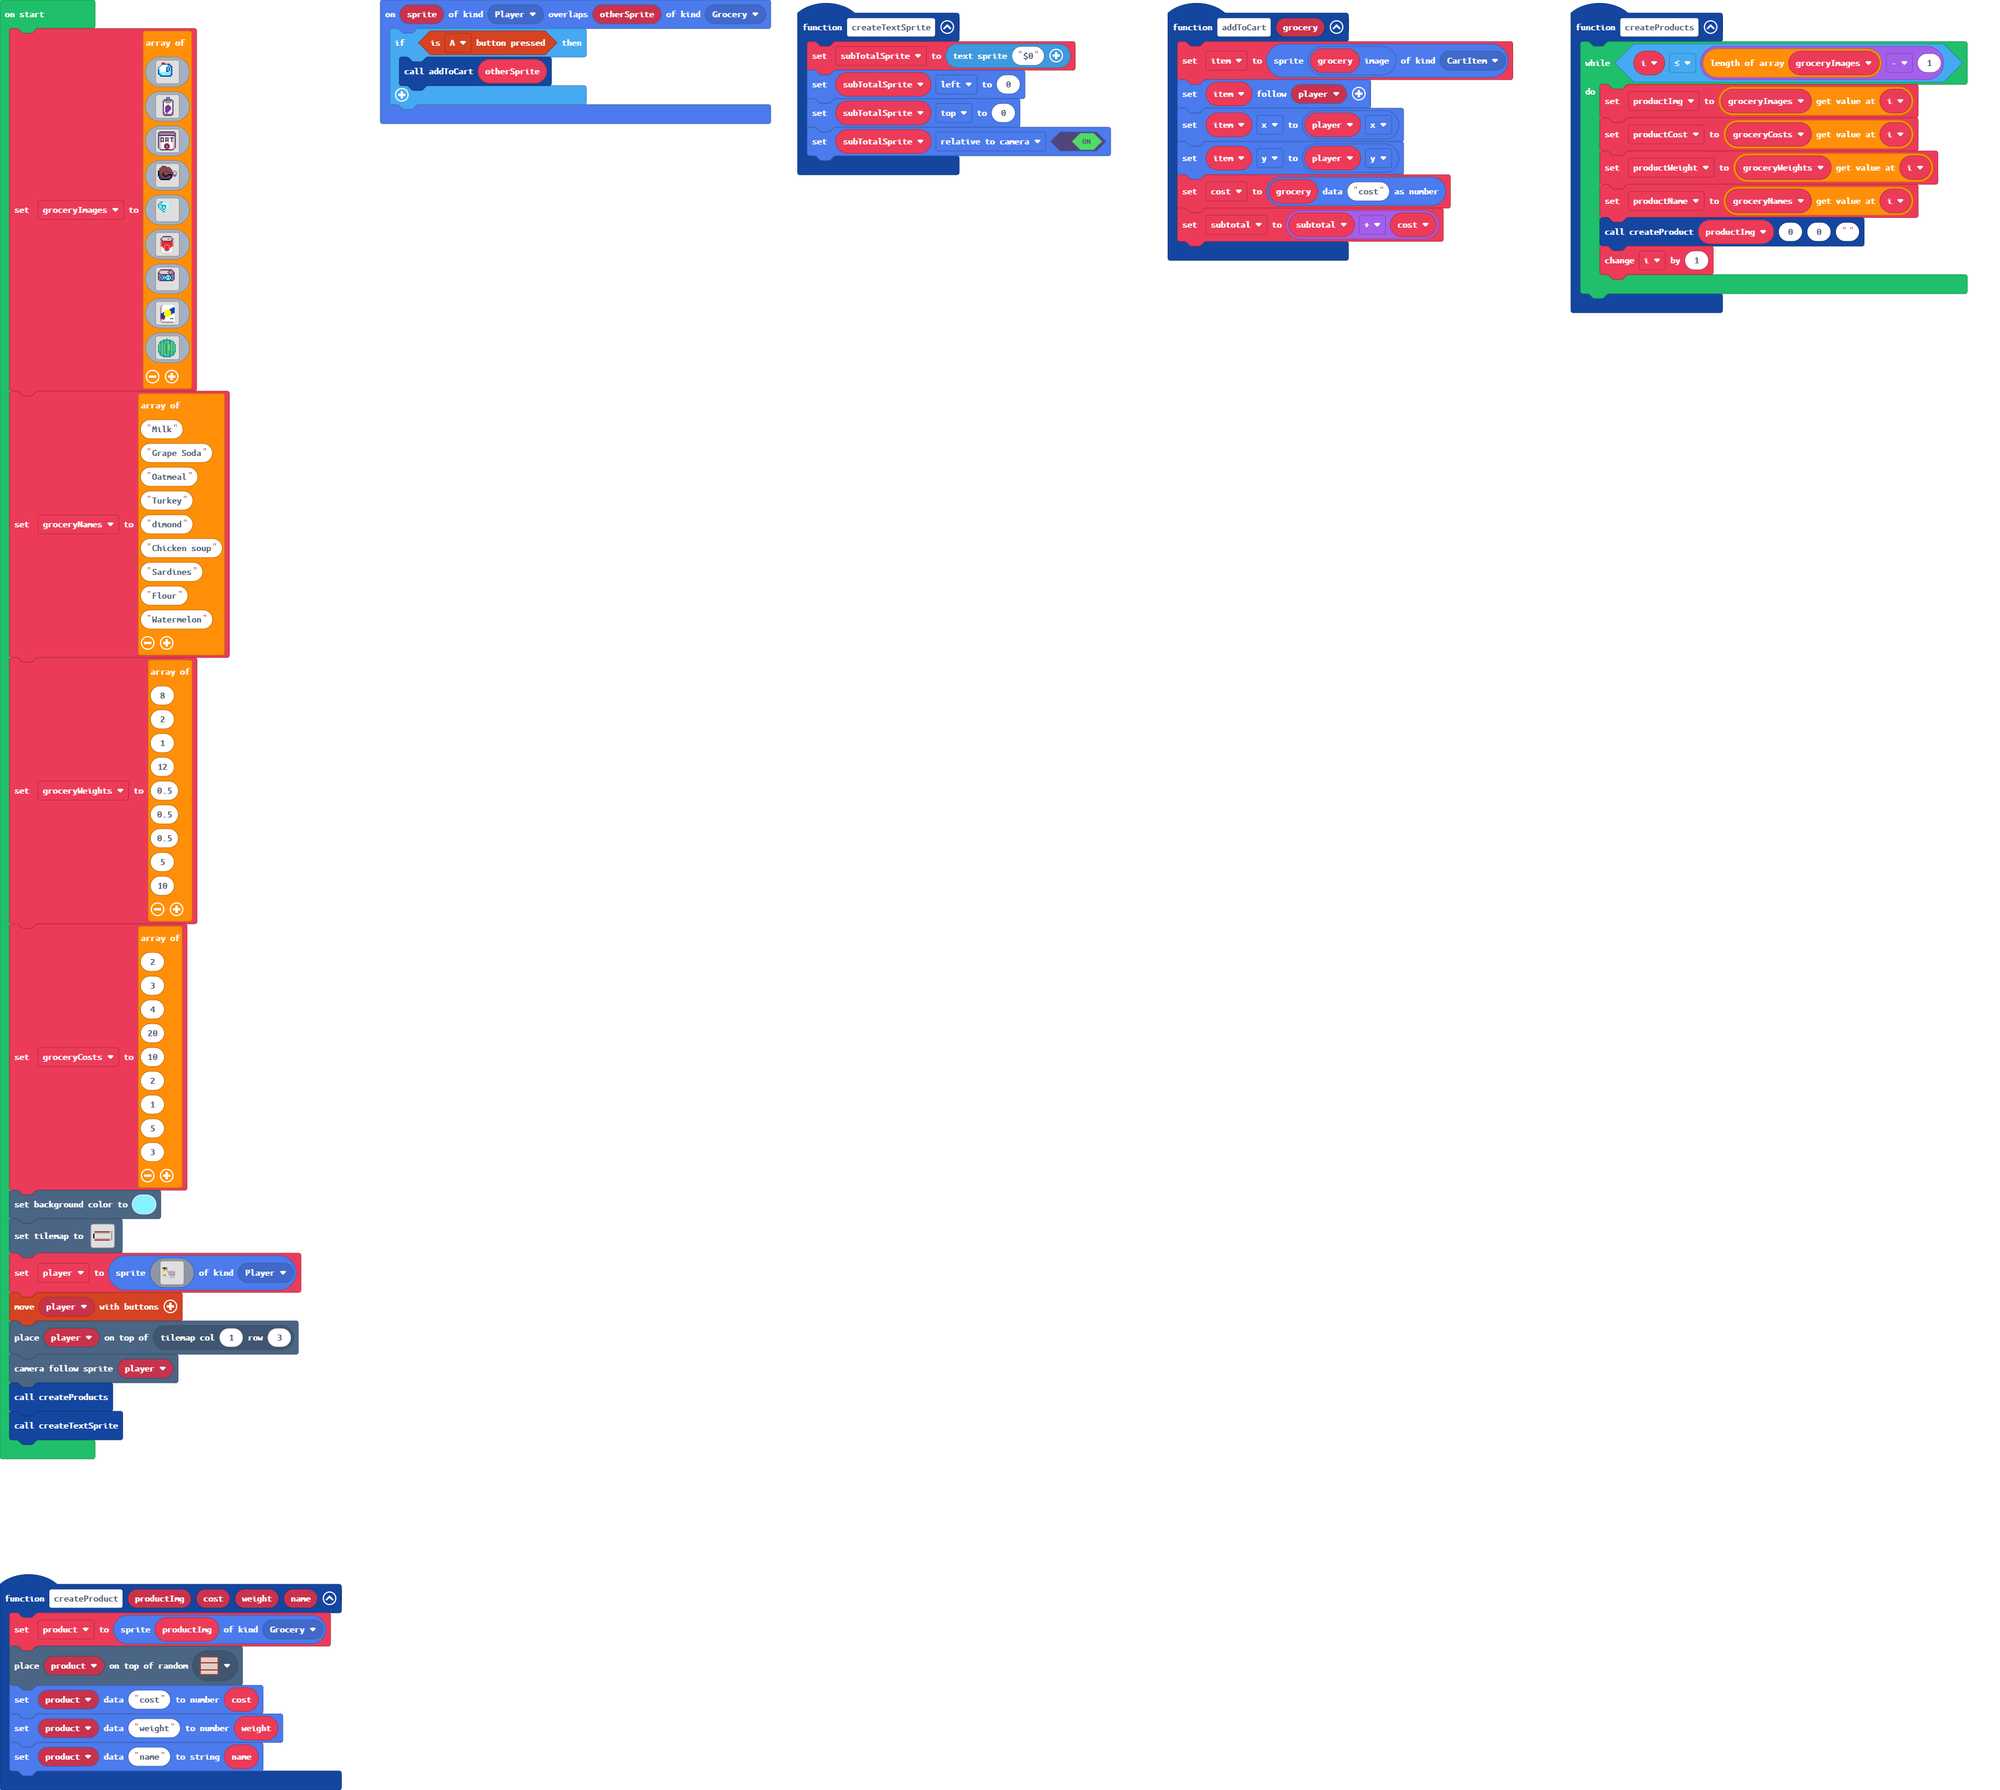
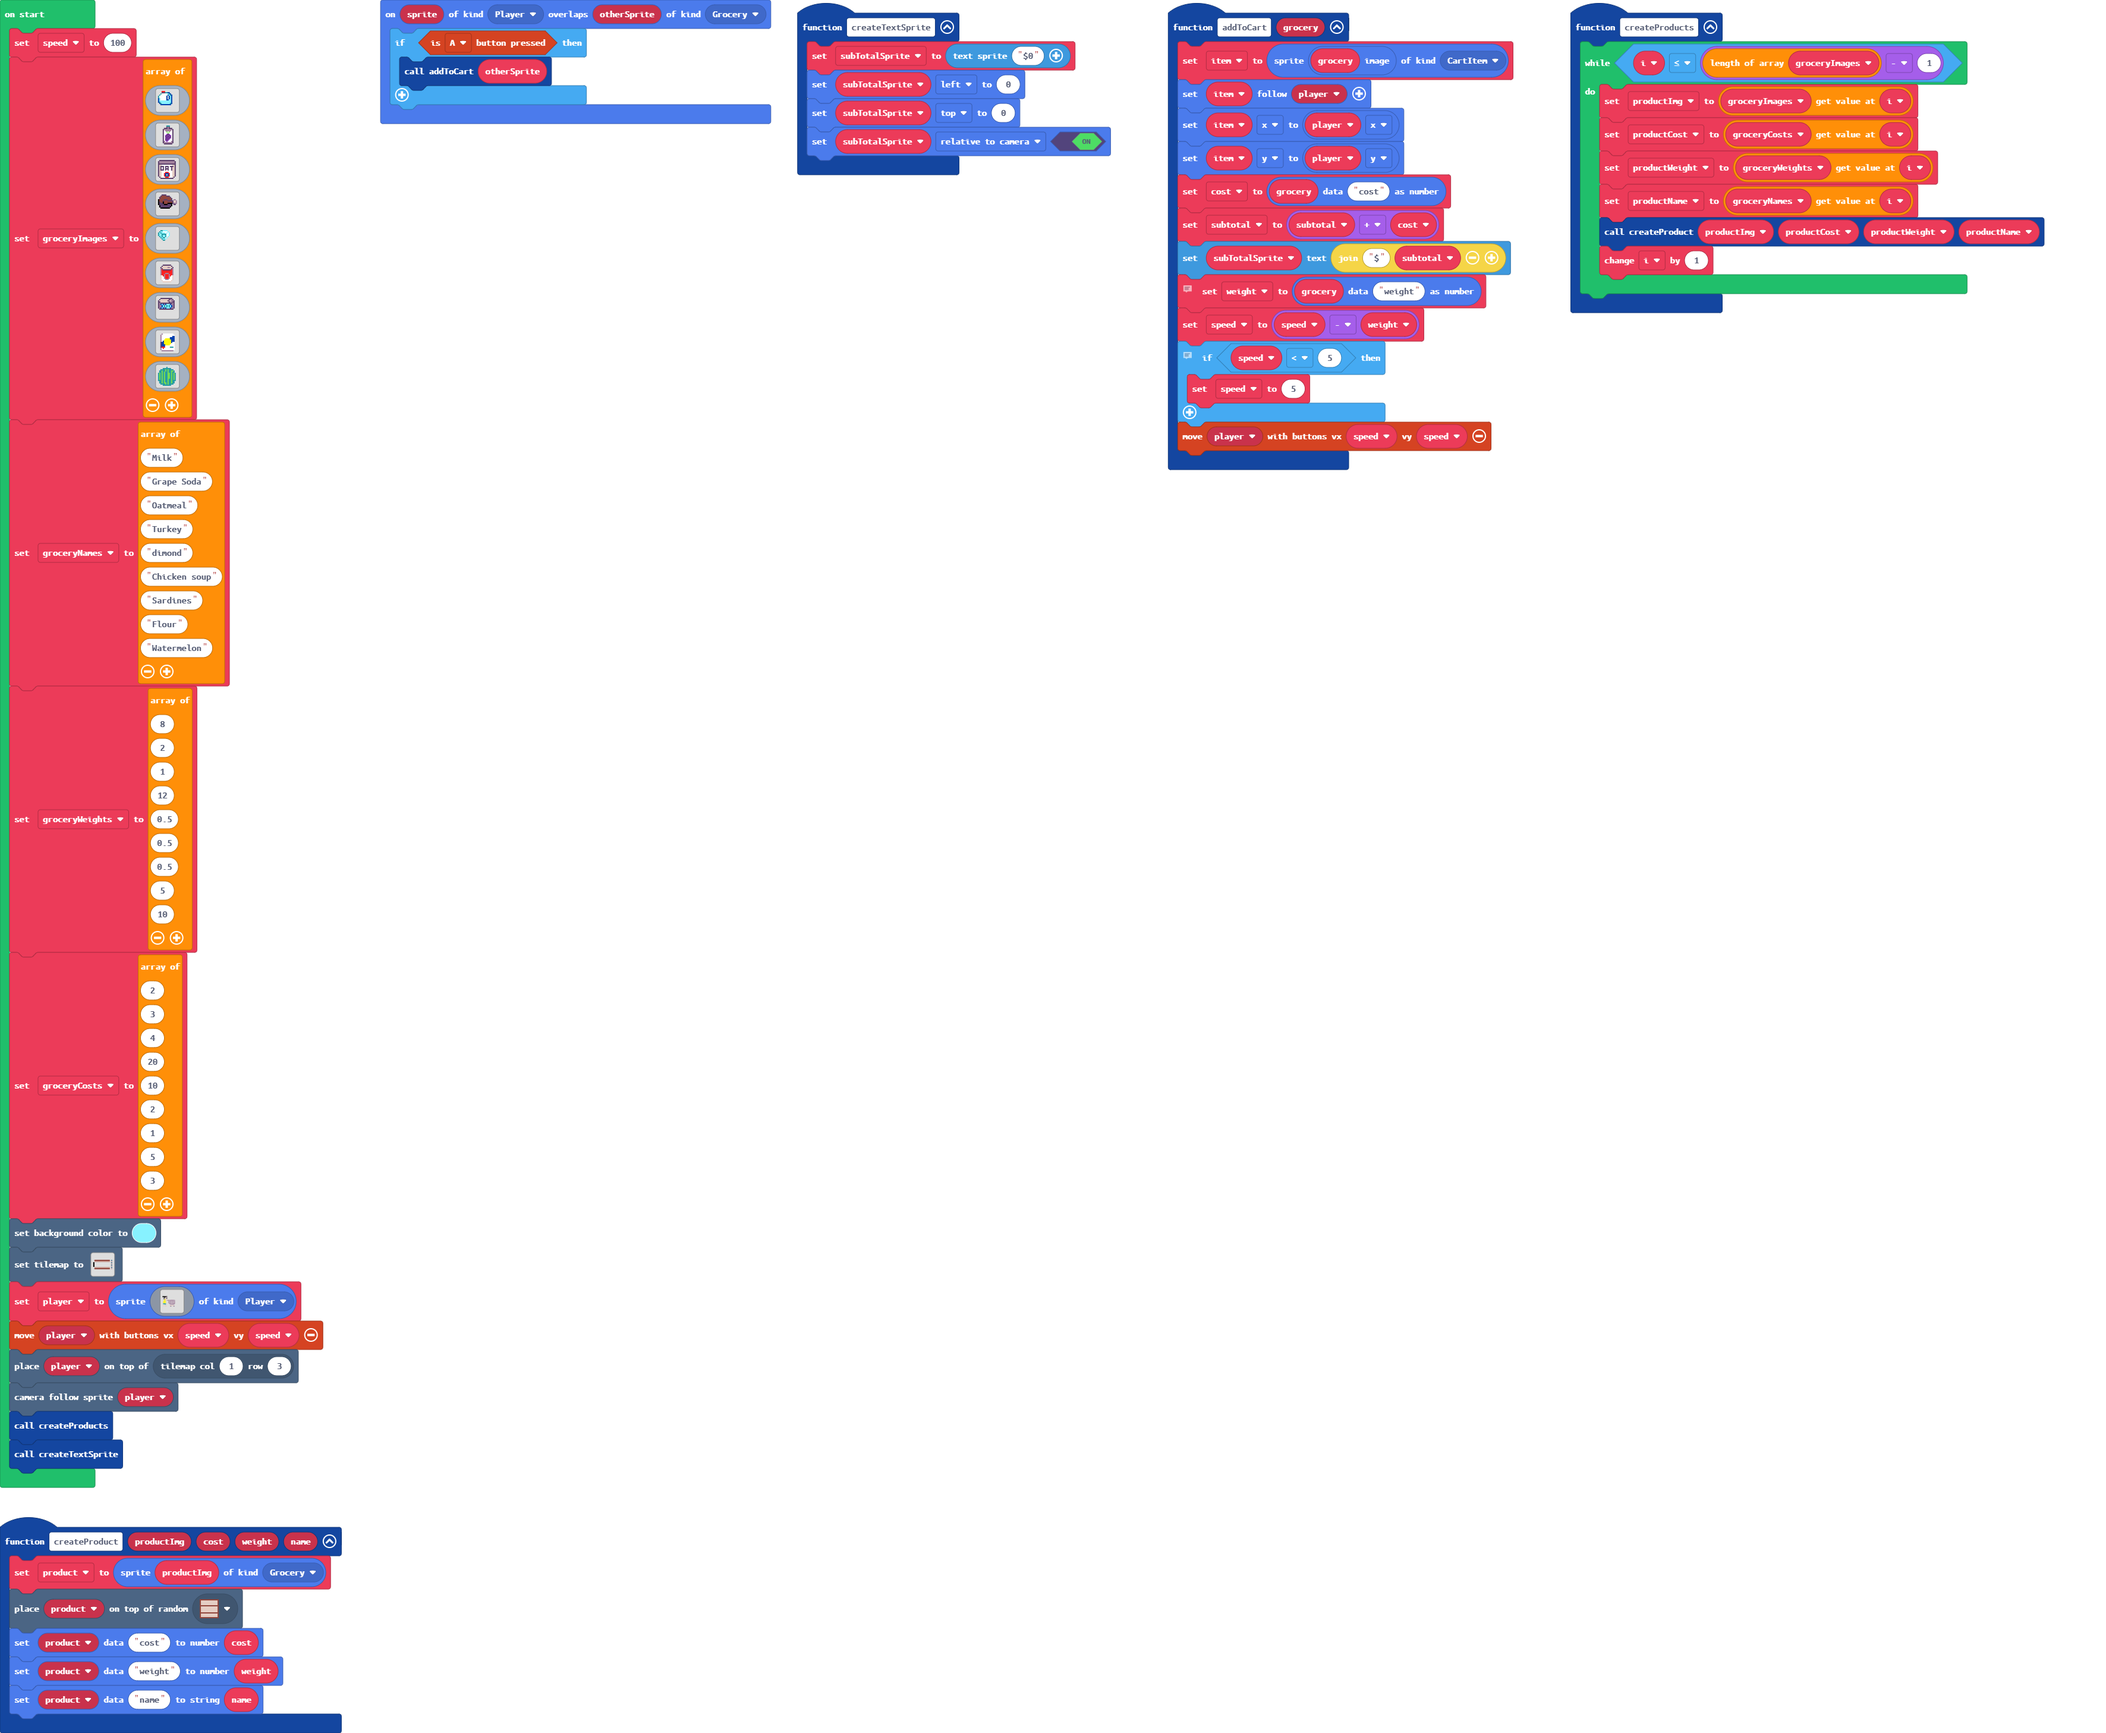
Update pxt.json, main.blocks, main.ts, tilemap.g.jres, tilemap.g.ts

Changed region(s): [[0.1561, 0.0, 0.9988, 0.281], [0.0, 0.0, 0.1873, 0.999], [0.1561, 0.999, 0.1873, 1.0]]

diff --git a/tilemap.g.ts b/tilemap.g.ts
@@ -36,6 +36,25 @@ namespace myTiles {
 . . . . . . . . . . . . . . . . 
 . 2 2 2 2 2 2 2 2 2 2 2 2 2 . . 
 `, [myTiles.transparency16,myTiles.tile1,myTiles.tile2,myTiles.tile3,myTiles.tile4,myTiles.tile5,myTiles.tile6,myTiles.tile7,myTiles.tile8,myTiles.tile10], TileScale.Sixteen);
+            case "level1":
+            case "level1":return tiles.createTilemap(hex`1000100000000000000000000000000000000000000000000000000000000000000000000000000000000000000000000000000000000000000000000000000000000000000000000000000000000000000000000000000000000000000000000000000000000000000000000000000000000000000000000000000000000000000000000000000000000000000000000000000000000000000000000000000000000000000000000000000000000000000000000000000000000000000000000000000000000000000000000000000000000000000000000000000000000000000000000000000000000000000000000000000000000000000000000000000000000000`, img`
+. . . . . . . . . . . . . . . . 
+. . . . . . . . . . . . . . . . 
+. . . . . . . . . . . . . . . . 
+. . . . . . . . . . . . . . . . 
+. . . . . . . . . . . . . . . . 
+. . . . . . . . . . . . . . . . 
+. . . . . . . . . . . . . . . . 
+. . . . . . . . . . . . . . . . 
+. . . . . . . . . . . . . . . . 
+. . . . . . . . . . . . . . . . 
+. . . . . . . . . . . . . . . . 
+. . . . . . . . . . . . . . . . 
+. . . . . . . . . . . . . . . . 
+. . . . . . . . . . . . . . . . 
+. . . . . . . . . . . . . . . . 
+. . . . . . . . . . . . . . . . 
+`, [myTiles.transparency16], TileScale.Sixteen);
         }
         return null;
     })

diff --git a/main.ts b/main.ts
@@ -20,18 +20,16 @@ function addToCart (grocery: Sprite) {
     item.y = player.y
     cost = sprites.readDataNumber(grocery, "cost")
     subtotal = subtotal + cost
-    subTotalSprite.setText("$"+subtotal )
-
+    subTotalSprite.setText("$" + subtotal)
     // update speed when we add to cart
-    let weight = sprites.readDataNumber(grocery, "weight")
+    weight = sprites.readDataNumber(grocery, "weight")
     speed = speed - weight
+    // if the speed is less than 5, make it 5 (so the controller won't flip)
+    if (speed < 5) {
+        speed = 5
+    }
     controller.moveSprite(player, speed, speed)
 }
-
-
-
-
-
 function createProducts () {
     while (i <= groceryImages.length - 1) {
         productImg = groceryImages[i]
@@ -49,13 +47,13 @@ function createProduct (productImg: Image, cost: number, weight: number, name: s
     sprites.setDataNumber(product, "weight", weight)
     sprites.setDataString(product, "name", name)
 }
-let speed = 100
 let product: Sprite = null
 let productName = ""
 let productWeight = 0
 let productCost = 0
 let productImg: Image = null
 let i = 0
+let weight = 0
 let subtotal = 0
 let cost = 0
 let item: Sprite = null
@@ -65,6 +63,8 @@ let groceryCosts: number[] = []
 let groceryWeights: number[] = []
 let groceryNames: string[] = []
 let groceryImages: Image[] = []
+let speed = 0
+speed = 100
 groceryImages = [
 img`
     . . . 2 2 2 . . . . . . . . . . 
